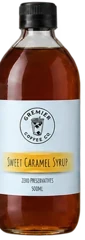
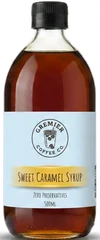
Coffee bar builder: caramel syrup tile shows the whole bottle

diff --git a/storefront-planner.js b/storefront-planner.js
@@ -415,7 +415,7 @@ ${n.value}`:line;}
     return addonsOf(p).map((addon,index)=>({addon,index,key:addon.milk_type||'parve'})).filter(x=>x.addon.per_liter&&!x.addon.legacy_milk);
   }
   // Milk as photo tiles: dairy holds all the litres to start; + on oat, almond or soy swaps a litre over.
-  const THUMB=(k)=>`/bar/studio/thumbs/${k}.webp?v=1`;
+  const THUMB=(k)=>`/bar/studio/thumbs/${k}.webp?v=2`;
   function photoTile(img,label,note,n,stepper,on,badge){
     return `<div class="bb-jug-tile${on?' on':''}"><div class="bb-jug-pic">${img?`<img src="${img}" alt="" loading="lazy">`:''}${badge?`<i>${badge}</i>`:''}</div><b>${label}</b><small>${note}</small><span class="bb-jug-step">${stepper}</span></div>`;
   }

diff --git a/index.html b/index.html
@@ -5418,7 +5418,7 @@ async function sendChatMessageText(text) {
 <script src="/coffee-bar-order.js?v=20261030-1"></script>
 <script src="/storefront-bar-layout.js?v=20261030-1"></script>
 <script src="/storefront-bar-world.js?v=20261101-layout2"></script>
-<script src="/storefront-planner.js?v=20261101-layout2"></script>
+<script src="/storefront-planner.js?v=20261104-1"></script>
 <script src="/storefront-bar-chat.js?v=20261101-layout2"></script>
 <script src="/storefront-promo.js?v=20261103-4"></script>
 <script src="/storefront-together.js?v=20261103-2"></script>
